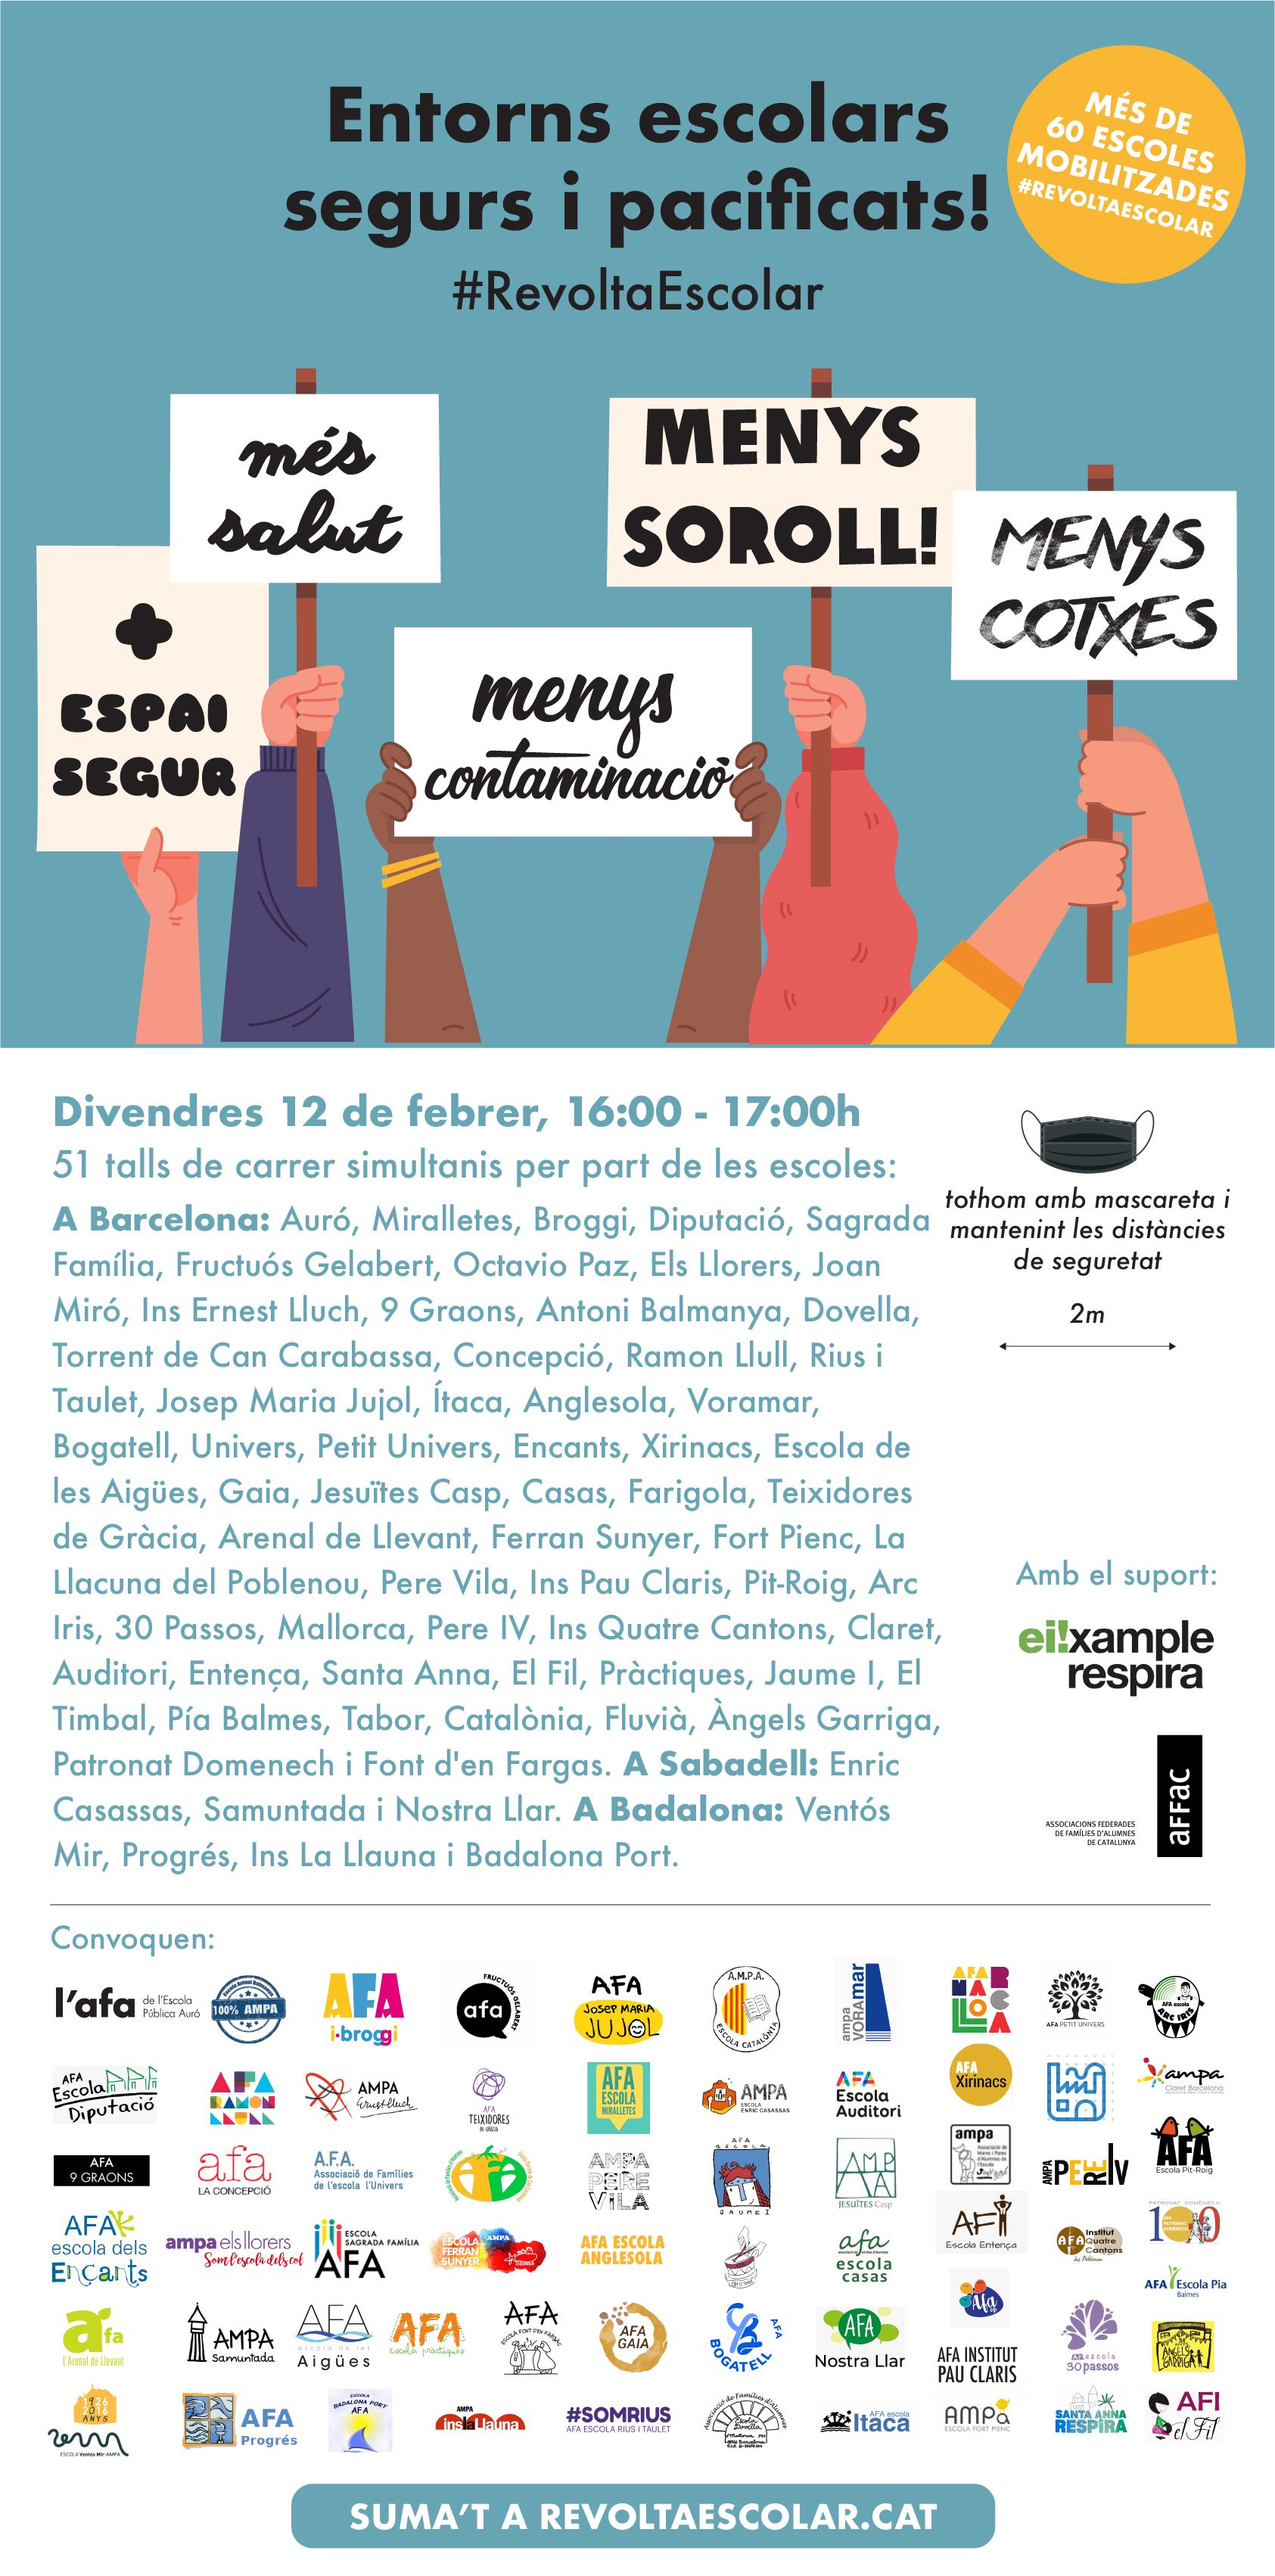
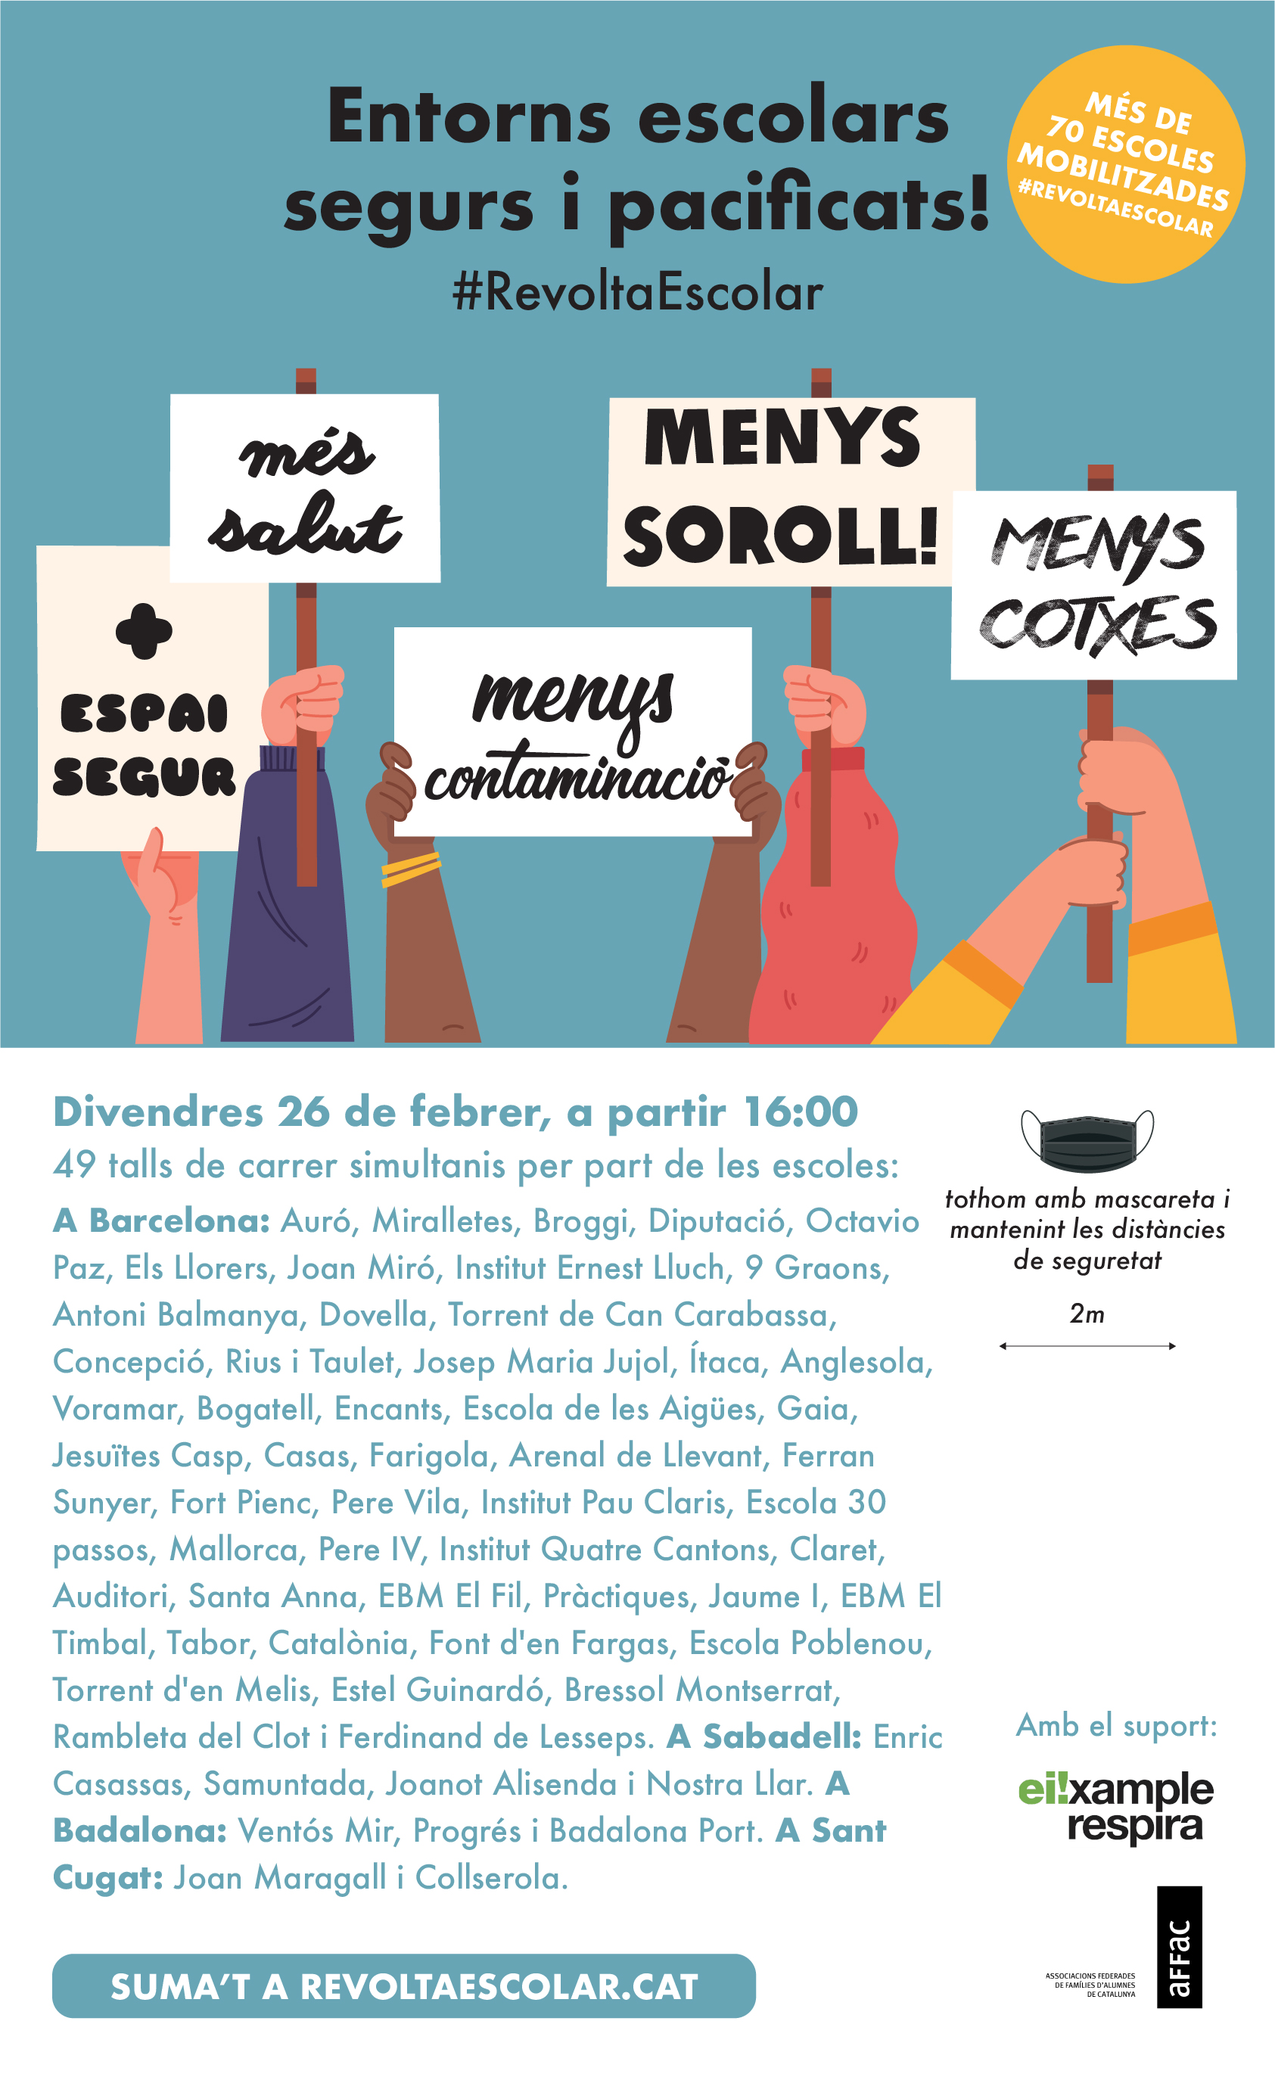
Added last info

diff --git a/index.html b/index.html
@@ -60,10 +60,10 @@
       <div class="inner">
         <p>
           <h2>Talls de carrer planificats pel<br>26 de febrer a les 16:30</h2>
-         <!--  <a href="/images/unitari-escoles.jpg">
-            <img src="/images/unitari-escoles.jpg">
+          <a href="/images/unitari-escoles.jpg?v=4">
+            <img src="/images/unitari-escoles.jpg?v=4">
           </a>
-          <a href="/images/mapa-barcelona.jpg">
+       <!--    <a href="/images/mapa-barcelona.jpg">
             <img src="/images/mapa-barcelona.jpg">
           </a> -->
           <ol>
@@ -71,7 +71,7 @@
             <li><u>Auró</u>: Mallorca entre Urgell i Borrell  (Eixample).</li>
             <li><u>Miralletes</u> i <u>Broggi</u>: Indústria amb St. Quintí (Sant Martí).</li>
             <li><u>Diputació</u>: Borrell amb Diputació (Eixample).</li>
-            <li><u>Sagrada Família</u> i <u>Fructuós Gelabert</u>: Sardenya amb Indústria (Gràcia i Eixample).</li>
+            <!-- <li><u>Sagrada Família</u> i <u>Fructuós Gelabert</u>: Sardenya amb Indústria (Gràcia i Eixample).</li> -->
             <li><u>Octavio Paz</u>: Mallorca amb Biscai (Sant Andreu).</li>
             <li><u>Els Llorers</u>: València entre Viladomat i Borrell (Eixample).</li>
             <li><u>Joan Miró</u> i <u>Institut Ernest Lluch</u>: Entença amb Diputació (Eixample).</li>
@@ -87,7 +87,7 @@
             <li><u>Voramar</u> i <u>Bogatell</u>: Badajoz amb Ramon Turró (Sant Martí).</li>
             <!-- <li><u>Univers</u> i <u>Petit Univers</u>: Bailèn amb Travessera de Gràcia (Gràcia).</li> -->
             <li><u>Encants</u>: Consell de Cent amb Cartagena (Eixample).</li>
-            <li><u>Xirinacs</u>: Entença amb Provença (Eixample).</li>
+            <!-- <li><u>Xirinacs</u>: Entença amb Provença (Eixample).</li> -->
             <li><u>Escola de les Aigües</u>: Taxdir amb Sardenya (Horta-Guinardó).</li>
             <li><u>Gaia</u>: Consell de Cent amb Castillejos (Eixample).</li>
             <li><u>Jesuïtes Casp</u>: Roger de Llúria amb Casp (Eixample).</li>
@@ -101,18 +101,17 @@
             <!-- <li><u>Pit-Roig</u> i <u>Arc Iris</u>: Alt de Pedrell (Horta-Guinardó).</li> -->
             <li><u>Escola 30 passos</u>: Ferran Turné amb Berenguer de Palou (Sant Andreu).</li>
             <li><u>Mallorca</u>: Londres entre Villaroel i Urgell (Eixample).</li>
-            <li><u>Pere IV</u> i Institut Quatre Cantons: Bilbao amb Pere IV.</li>
+            <li><u>Pere IV</u> i <u>Institut Quatre Cantons</u>: Bilbao amb Pere IV.</li>
             <li><u>Claret</u>: Maria Claret amb Sicília (Gracia).</li>
             <li><u>Auditori</u>: Almogàvers entre Àlaba i Pamplona (Sant Martí).</li>
             <!-- <li><u>Entença</u>: París, entre Viladomat i Comte Urgell (Eixample).</li> -->
             <!-- <li><u>Santa Anna</u>: Bailén amb Diputació (Eixample).</li> -->
             <li><u>EBM El Fil</u>, <u>Pràctiques</u> , <u>Jaume I</u> i <u>EBM El Timbal</u>: Numància entre Berlín i Robrenyo (Sants-Monjuïc).</li>
-            <li><u>Pia Balmes</u>: Travessera de Gràcia amb Balmes (Sarrià-Sant Gervasi).</li>
+            <!-- <li><u>Pia Balmes</u>: Travessera de Gràcia amb Balmes (Sarrià-Sant Gervasi).</li> -->
             <li><u>Tabor</u>: Cartagena entre Mallorca i Provença (Eixample).</li>
             <li><u>Catalònia</u>: Perú entre Selva de Mar i Fluvià (Sant Martí).</li>
-            <li><u>Fluvià</u>: Pujades amb Fluvià (Sant Martí).</li>
+            <!-- <li><u>Fluvià</u>: Pujades amb Fluvià (Sant Martí).</li> -->
             <li><u>Àngels Garriga</u>: Gallecs 22 (Horta-Guinardó).</li>
-            <li><u>Patronat Domenech</u>: Gran de Gràcia amb Nicolás Salmerón (Gràcia).</li>
             <li><u>Font d'en Fargas</u>: Pintor Pradilla (Horga-Guinardó).</li>
             <li><u>Escola Poblenou</u>: Perú entre Espronceda i Bilbao (Sant Martí).</li>
             <li><u>Torrent d'en Melis</u>, <u>Estel Guinardó</u> i <u>Bressol Montserrat</u>: Varsòvia amb Telègraf (Horta-Guinardó).</li>
@@ -122,9 +121,10 @@
             <li><u>Samuntada</u>: Pelai Briz.</li>
             <li><u>Enric Casassas</u>: Carrer de les Paus amb Llobet.</li>     
             <li><u>Nostra Llar</u>: Calderón entre Vallés i Ponent.</li>
+            <li><u>Joanot Alisenda</u>: Sallarés i Pla</li>
             <h2 class="city">A Badalona:</h2>
             <li><u>Ventós Mir</u>: Industria amb Ignasi de Loiola.</li>
-            <li><u>Progrés</u> i <u>Institut La Llauna</u>: Industria amb Providència.</li>
+            <li><u>Progrés</u>: Industria amb Providència.</li>
             <li><u>Badalona Port</u>: Ponent amb Carrer Cervantes.</li>
             <h2 class="city">A Sant Cugat:</h2>
             <li><u>Joan Maragall</u>: Passeig Sant Magí amb Rius i Taulet.</li>
@@ -154,7 +154,6 @@
           <img src="/images/logos/AFA-Escola_Josep-Maria-Jujol.png" />
           <img src="/images/logos/afa-estel.jpg" />
           <img src="/images/logos/afa-ferran-sunyer.jpg" />
-          <img src="/images/logos/afa-fluvia.png" />
           <img src="/images/logos/afa-font-den-fargas.jpg" />
           <img src="/images/logos/afa-fort-pienc.jpg" />
           <img src="/images/logos/afa-gaia.png" />
@@ -214,6 +213,7 @@
           <img src="/images/logos/ampa-casassas-sabadell.png" />
           <img src="/images/logos/ampa-samuntana-sabadell.jpg" />
           <img src="/images/logos/afa-nostra-llar-sabadell.jpg" />
+          <img src="/images/logos/joanot-sabadell.jpg" />
         </div>
         <h2>Badalona:</h2>
         <div class="logos">
